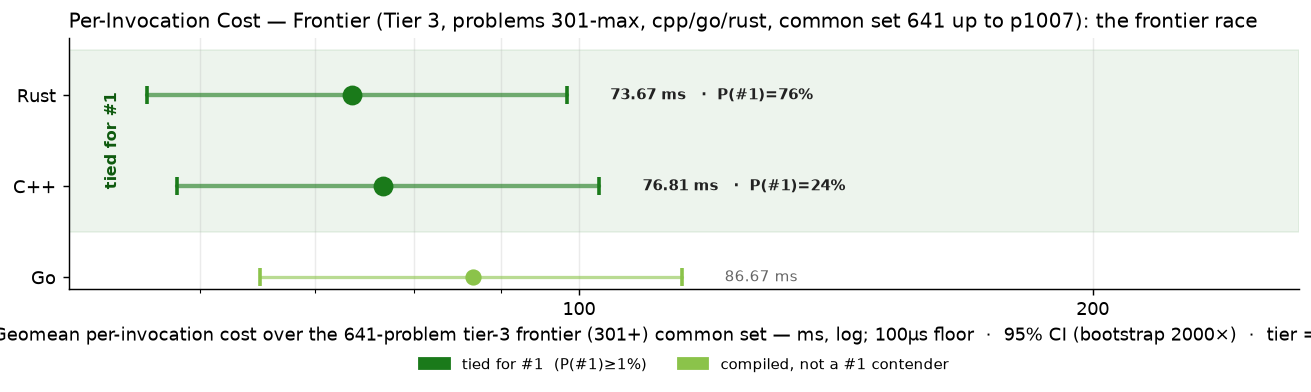
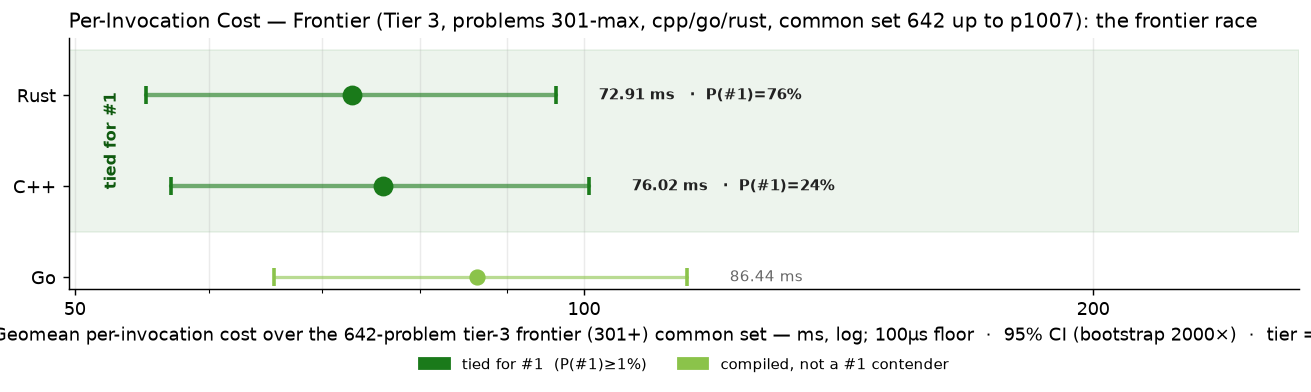
cpp p0768

diff --git a/RESULTS.md b/RESULTS.md
@@ -1,6 +1,6 @@
 # Project Euler — Cross-Language Benchmarks
 
-> **Scope: 4521 in-scope cells across 1007 problems × tiered languages — 4388 measured (97.1% coverage).**
+> **Scope: 4521 in-scope cells across 1007 problems × tiered languages — 4389 measured (97.1% coverage).**
 > The cross-language ranking below is computed over the **200-problem common set** (problems in 1-200 where every language has a passing measurement) — the apples-to-apples Foundation comparison surface.  Per-tier rankings and coverage detail appear further below.
 > Growing carefully — each new problem and language is audited for state-leak
 > safety, verified for answer correctness, and added only when it cleanly fits the
@@ -70,15 +70,15 @@ Same scatter as the Foundation chart, restricted to the tier-2 active languages 
 
 The frontier verification trio — C++, Go, Rust — on problems above 300. 3-way cross-language agreement is the verification protocol (strictly stronger than 2-way; see JOURNEY.md "Tier Reframing" episode for the p254 lesson that motivated it). Python and Zig are explicitly out of this tier — python's wall cost makes it impractical at level 5+, and zig's role caps at Tier 2.
 
-### Per-Invocation Cost (Common Set, 641 of ≤707 problems in scope)
+### Per-Invocation Cost (Common Set, 642 of ≤707 problems in scope)
 
 ![Per-Invocation Cost — Tier 3](charts/per_iter_total_tier3.png)
 
-| Rank | Language | Geomean (641-problem common set) | Total (sum) | Lines of code | vs Fastest |
+| Rank | Language | Geomean (642-problem common set) | Total (sum) | Lines of code | vs Fastest |
 |------|----------|--------------------:|------------:|--------------:|-----------:|
-| 1 | **Rust** | 73.67 ms | 1727.33 s | 127,719 | 1.00× |
-| 2 | **C++** | 76.81 ms | 1880.80 s | 92,964 | 1.04× |
-| 3 | **Go** | 86.67 ms | 2114.69 s | 118,334 | 1.18× |
+| 1 | **Rust** | 72.91 ms | 1727.33 s | 127,961 | 1.00× |
+| 2 | **C++** | 76.02 ms | 1880.80 s | 93,120 | 1.04× |
+| 3 | **Go** | 86.44 ms | 2114.71 s | 118,810 | 1.19× |
 
 ### Speed vs Code Size
 
@@ -264,7 +264,7 @@ table never silently mixes versions (METHODOLOGY.md §4).  Current state of the
 |----------|-----------|------:|---------------|
 | **ARM64** | `Apple clang version 21.0.0 (clang-2100.1.1.101)` | 200 | 2026-07-30 |
 | **C** | `Apple clang version 21.0.0 (clang-2100.1.1.101)` | 200 | 2026-07-30 |
-| **C++** | `Apple clang version 21.0.0 (clang-2100.1.1.101)` | 942 | 2026-09-05 |
+| **C++** | `Apple clang version 21.0.0 (clang-2100.1.1.101)` | 943 | 2026-09-05 |
 | **C#** | `10.0.101` | 200 | 2026-07-30 |
 | **Go** | `go version go1.26.5 darwin/arm64` | 944 | 2026-09-05 |
 | **Java** | `openjdk version "21.0.2" 2024-01-16 LTS` | 200 | 2026-07-30 |

diff --git a/per_problem/per_problem_0701-0800.md b/per_problem/per_problem_0701-0800.md
@@ -75,7 +75,7 @@ in tier-1 display order (native → managed → interpreted).
 | **p0765** | 72.61 ms | 576.8 µs | 423.4 µs |
 | **p0766** | 12.77 s | 939.20 ms | 1.42 s |
 | **p0767** | 77.70 ms | 1.41 s | 78.20 ms |
-| **p0768** | — | 64.4 µs | 15.61 ms |
+| **p0768** | 98.8 µs | 64.4 µs | 15.61 ms |
 | **p0769** | — | 13.96 s | — |
 | **p0770** | 158.21 ms | 158.17 ms | 158.29 ms |
 | **p0771** | 87.90 ms | 33.20 ms | 479.86 ms |
